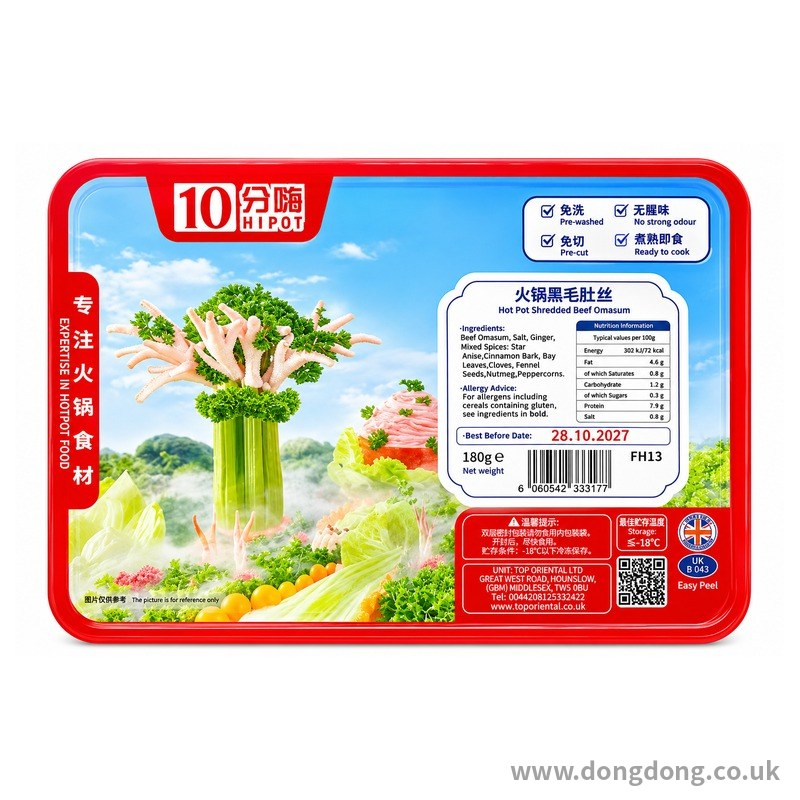
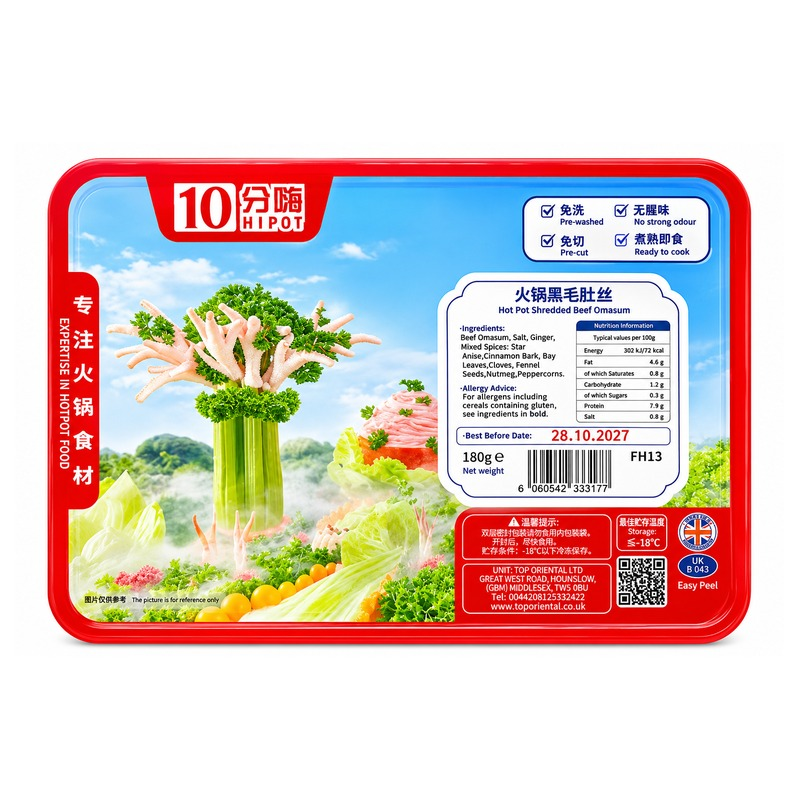
换高清图：10分嗨黑毛肚（改名黑毛肚）/牛百叶、第一家芝麻汤圆、時鮮碼頭香菇鸡腿包（补牌子规格）
Claude-Session: https://claude.ai/code/session_01EapkdAZuY1J5DZKGNmtVd8

Changed region(s): [[0.625, 0.9375, 0.9688, 1.0], [0.75, 0.5312, 0.7812, 0.5625]]

diff --git a/index.html b/index.html
@@ -1089,7 +1089,7 @@ const PRODUCTS_RAW=[
  {c:"bun",oos:true,zh:"三全豆沙包",en:"Sanquan Sweet Bean Paste Bun",spec:"360g",price:2.25,img:"img/p1_04.jpg"},
  {c:"bun",oos:true,zh:"三全香菇素菜包",en:"Sanquan Mushroom Vegetable Bun",spec:"360g",price:2.95,img:"img/nw_p1_05.jpg"},
  {c:"bun",zh:"安井奶香馒头",en:"Anjoy Milk Steamed Bun",spec:"240g",price:1.55,img:"img/p1_06.jpg"},
- {c:"bun",zh:"香菇鸡腿包",en:"Mushroom Chicken Bun",oos:true,price:2.99,img:"img/p1_07.jpg"},
+ {c:"bun",zh:"時鮮碼頭 Presh Pier 香菇鸡腿包",en:"Presh Pier Shiitake Mushroom Chicken Bun",spec:"420g（6 个 6 pcs）",oos:true,price:2.99,img:"img/hd4_presh_mushroomchicken420.jpg",kw:"香菇鸡腿包 鸡肉包 包子"},
  {c:"bun",zh:"功夫鸡腿包 新奥尔良",en:"Kung Fu Chicken Bun (Sweet & Chilli)",spec:"510g",price:4.99,img:"img/nw_p1_08.jpg"},
  {c:"bun",zh:"功夫水煎包 猪肉梅菜",en:"Kung Fu Pan-Fried Buns Pork & Pickled Mustard",spec:"352g",price:5.15,img:"img/nw_p1_09.jpg"},
  {c:"bun",zh:"功夫小笼包 鲜虾猪肉",en:"Kung Fu Juicy Bao Pork & Shrimp",spec:"510g",price:4.49,img:"img/nw_p1_10.jpg"},
@@ -1110,7 +1110,7 @@ const PRODUCTS_RAW=[
  {c:"roll",zh:"鸭肉春卷",en:"Duck Spring Rolls",spec:"10个装 10 pcs",price:6.99,img:"img/nw_p2_05.jpg"},
  {c:"tangyuan",zh:"第一家花生汤圆",en:"Spring Home Peanut Rice Balls",spec:"200g",price:1.79,img:"img/nw_p2_06.jpg"},
  {c:"tangyuan",zh:"第一家红豆沙汤圆",en:"Spring Home Red Bean Rice Balls",spec:"200g",price:1.79,img:"img/nw_p2_07.jpg"},
- {c:"tangyuan",zh:"第一家 Spring Home 芝麻汤圆",en:"Spring Home Glutinous Rice Ball, Sesame Filling",spec:"200g（10 粒 10 pcs）",price:1.79,img:"img/hd3_sh_sesame_ty.jpg",kw:"黑芝麻 汤圆 sesame tangyuan"},
+ {c:"tangyuan",zh:"第一家 Spring Home 芝麻汤圆",en:"Spring Home Glutinous Rice Ball, Sesame Filling",spec:"200g（10 粒 10 pcs）",price:1.79,img:"img/hd4_sh_sesame_ty.jpg",kw:"黑芝麻 汤圆 sesame tangyuan"},
  {c:"tangyuan",zh:"思念玉珍珠黑芝麻小汤圆",en:"Synear Mini Black Sesame Tong Yuan",spec:"300g",price:2.69,img:"img/nw_p2_09.jpg"},
  {c:"tangyuan",zh:"三全黑芝麻汤圆",en:"Sanquan Black Sesame Rice Balls",spec:"400g",price:3.69,img:"img/nw_p2_10.jpg"},
  {c:"tangyuan",zh:"思念黑芝麻玉汤圆",en:"Synear Black Sesame Tong Yuan",spec:"320g",price:2.79,img:"img/nw_p2_11.jpg"},
@@ -1158,10 +1158,10 @@ const PRODUCTS_RAW=[
  {"c": "hotpot", "oos": true, "zh": "金达牛肉卷", "en": "Jinda Beef Rolls", "spec": "400g", "price": 7.99, "img": "img/p5_04.jpg"},
  {"c": "hotpot", "zh": "金达猪肉卷", "en": "Jinda Pork Rolls", "spec": "400g", "price": 6.5, "img": "img/hd_jd_porkroll.jpg"},
  {"c": "hotpot", "oos": true, "zh": "功夫牛肉卷", "en": "Kung Fu Beef Slices", "spec": "400g", "price": 7.49, "img": "img/p5_06.jpg"},
- {"c": "hotpot", "zh": "10分嗨火锅牛百叶", "en": "HIPOT Hot Pot Beef Tripes", "spec": "200g", "arr": "25/11/2026", "price": 3.25, "img": "img/hd3_hipot_tripe200.jpg"},
+ {"c": "hotpot", "zh": "10分嗨火锅牛百叶", "en": "HIPOT Hot Pot Beef Tripes", "spec": "200g", "arr": "25/11/2026", "price": 3.25, "img": "img/hd4_hipot_tripe200.jpg"},
  {"c": "hotpot", "zh": "10分嗨火锅黄喉", "en": "HIPOT Hot Pot Beef Aorta", "spec": "200g", "price": 2.99, "img": "img/hd_hp_aorta.jpg", "oos": true},
  {"c": "hotpot", "zh": "10分嗨火锅猪脑花", "en": "HIPOT Hot Pot Pork Brain", "spec": "185g", "price": 2.99, "img": "img/hd_hp_brain.jpg"},
- {"c": "hotpot", "zh": "10分嗨火锅黑毛肚丝", "en": "HIPOT Hot Pot Shredded Beef Omasum", "spec": "220g", "price": 3.39, "img": "img/hd_hipot_omasum_shred.jpg"},
+ {"c": "hotpot", "zh": "10分嗨火锅黑毛肚", "en": "HIPOT Hot Pot Beef Omasum", "spec": "220g", "price": 3.39, "img": "img/hd4_hipot_omasum220.jpg", "kw": "毛肚 黑毛肚 千层肚 omasum"},
  {"c": "hotpot", "zh": "10分嗨火锅小郡肝", "en": "HIPOT Hot Pot Chicken Gizzard", "spec": "180g", "price": 2.99, "img": "img/hd_hp_gizzard.jpg"},
  {"c": "hotpot", "zh": "东方龙东北干豆腐", "en": "Oriental Dragon Tofu Sheet", "spec": "227g", "price": 2.49, "img": "img/hd2_od_baiye.jpg", "vg": "vegan"},
  {"c": "meat", "zh": "QP Foods 猪肚", "en": "QP Foods Pork Stomach", "spec": "300g", "price": 2.59, "img": "img/hd_porkstomach.jpg"},

diff --git a/classic.html b/classic.html
@@ -908,7 +908,7 @@ const PRODUCTS_RAW=[
  {c:"bun",oos:true,zh:"三全豆沙包",en:"Sanquan Sweet Bean Paste Bun",spec:"360g",price:2.25,img:"img/p1_04.jpg"},
  {c:"bun",oos:true,zh:"三全香菇素菜包",en:"Sanquan Mushroom Vegetable Bun",spec:"360g",price:2.95,img:"img/nw_p1_05.jpg"},
  {c:"bun",zh:"安井奶香馒头",en:"Anjoy Milk Steamed Bun",spec:"240g",price:1.55,img:"img/p1_06.jpg"},
- {c:"bun",zh:"香菇鸡腿包",en:"Mushroom Chicken Bun",oos:true,price:2.99,img:"img/p1_07.jpg"},
+ {c:"bun",zh:"時鮮碼頭 Presh Pier 香菇鸡腿包",en:"Presh Pier Shiitake Mushroom Chicken Bun",spec:"420g（6 个 6 pcs）",oos:true,price:2.99,img:"img/hd4_presh_mushroomchicken420.jpg",kw:"香菇鸡腿包 鸡肉包 包子"},
  {c:"bun",zh:"功夫鸡腿包 新奥尔良",en:"Kung Fu Chicken Bun (Sweet & Chilli)",spec:"510g",price:4.99,img:"img/nw_p1_08.jpg"},
  {c:"bun",zh:"功夫水煎包 猪肉梅菜",en:"Kung Fu Pan-Fried Buns Pork & Pickled Mustard",spec:"352g",price:5.15,img:"img/nw_p1_09.jpg"},
  {c:"bun",zh:"功夫小笼包 鲜虾猪肉",en:"Kung Fu Juicy Bao Pork & Shrimp",spec:"510g",price:4.49,img:"img/nw_p1_10.jpg"},
@@ -929,7 +929,7 @@ const PRODUCTS_RAW=[
  {c:"roll",zh:"鸭肉春卷",en:"Duck Spring Rolls",spec:"10个装 10 pcs",price:6.99,img:"img/nw_p2_05.jpg"},
  {c:"tangyuan",zh:"第一家花生汤圆",en:"Spring Home Peanut Rice Balls",spec:"200g",price:1.79,img:"img/nw_p2_06.jpg"},
  {c:"tangyuan",zh:"第一家红豆沙汤圆",en:"Spring Home Red Bean Rice Balls",spec:"200g",price:1.79,img:"img/nw_p2_07.jpg"},
- {c:"tangyuan",zh:"第一家 Spring Home 芝麻汤圆",en:"Spring Home Glutinous Rice Ball, Sesame Filling",spec:"200g（10 粒 10 pcs）",price:1.79,img:"img/hd3_sh_sesame_ty.jpg",kw:"黑芝麻 汤圆 sesame tangyuan"},
+ {c:"tangyuan",zh:"第一家 Spring Home 芝麻汤圆",en:"Spring Home Glutinous Rice Ball, Sesame Filling",spec:"200g（10 粒 10 pcs）",price:1.79,img:"img/hd4_sh_sesame_ty.jpg",kw:"黑芝麻 汤圆 sesame tangyuan"},
  {c:"tangyuan",zh:"思念玉珍珠黑芝麻小汤圆",en:"Synear Mini Black Sesame Tong Yuan",spec:"300g",price:2.69,img:"img/nw_p2_09.jpg"},
  {c:"tangyuan",zh:"三全黑芝麻汤圆",en:"Sanquan Black Sesame Rice Balls",spec:"400g",price:3.69,img:"img/nw_p2_10.jpg"},
  {c:"tangyuan",zh:"思念黑芝麻玉汤圆",en:"Synear Black Sesame Tong Yuan",spec:"320g",price:2.79,img:"img/nw_p2_11.jpg"},
@@ -977,10 +977,10 @@ const PRODUCTS_RAW=[
  {"c": "hotpot", "oos": true, "zh": "金达牛肉卷", "en": "Jinda Beef Rolls", "spec": "400g", "price": 7.99, "img": "img/p5_04.jpg"},
  {"c": "hotpot", "zh": "金达猪肉卷", "en": "Jinda Pork Rolls", "spec": "400g", "price": 6.5, "img": "img/hd_jd_porkroll.jpg"},
  {"c": "hotpot", "oos": true, "zh": "功夫牛肉卷", "en": "Kung Fu Beef Slices", "spec": "400g", "price": 7.49, "img": "img/p5_06.jpg"},
- {"c": "hotpot", "zh": "10分嗨火锅牛百叶", "en": "HIPOT Hot Pot Beef Tripes", "spec": "200g", "arr": "25/11/2026", "price": 3.25, "img": "img/hd3_hipot_tripe200.jpg"},
+ {"c": "hotpot", "zh": "10分嗨火锅牛百叶", "en": "HIPOT Hot Pot Beef Tripes", "spec": "200g", "arr": "25/11/2026", "price": 3.25, "img": "img/hd4_hipot_tripe200.jpg"},
  {"c": "hotpot", "zh": "10分嗨火锅黄喉", "en": "HIPOT Hot Pot Beef Aorta", "spec": "200g", "price": 2.99, "img": "img/hd_hp_aorta.jpg", "oos": true},
  {"c": "hotpot", "zh": "10分嗨火锅猪脑花", "en": "HIPOT Hot Pot Pork Brain", "spec": "185g", "price": 2.99, "img": "img/hd_hp_brain.jpg"},
- {"c": "hotpot", "zh": "10分嗨火锅黑毛肚丝", "en": "HIPOT Hot Pot Shredded Beef Omasum", "spec": "220g", "price": 3.39, "img": "img/hd_hipot_omasum_shred.jpg"},
+ {"c": "hotpot", "zh": "10分嗨火锅黑毛肚", "en": "HIPOT Hot Pot Beef Omasum", "spec": "220g", "price": 3.39, "img": "img/hd4_hipot_omasum220.jpg", "kw": "毛肚 黑毛肚 千层肚 omasum"},
  {"c": "hotpot", "zh": "10分嗨火锅小郡肝", "en": "HIPOT Hot Pot Chicken Gizzard", "spec": "180g", "price": 2.99, "img": "img/hd_hp_gizzard.jpg"},
  {"c": "hotpot", "zh": "东方龙东北干豆腐", "en": "Oriental Dragon Tofu Sheet", "spec": "227g", "price": 2.49, "img": "img/hd2_od_baiye.jpg", "vg": "vegan"},
  {"c": "meat", "zh": "QP Foods 猪肚", "en": "QP Foods Pork Stomach", "spec": "300g", "price": 2.59, "img": "img/hd_porkstomach.jpg"},
